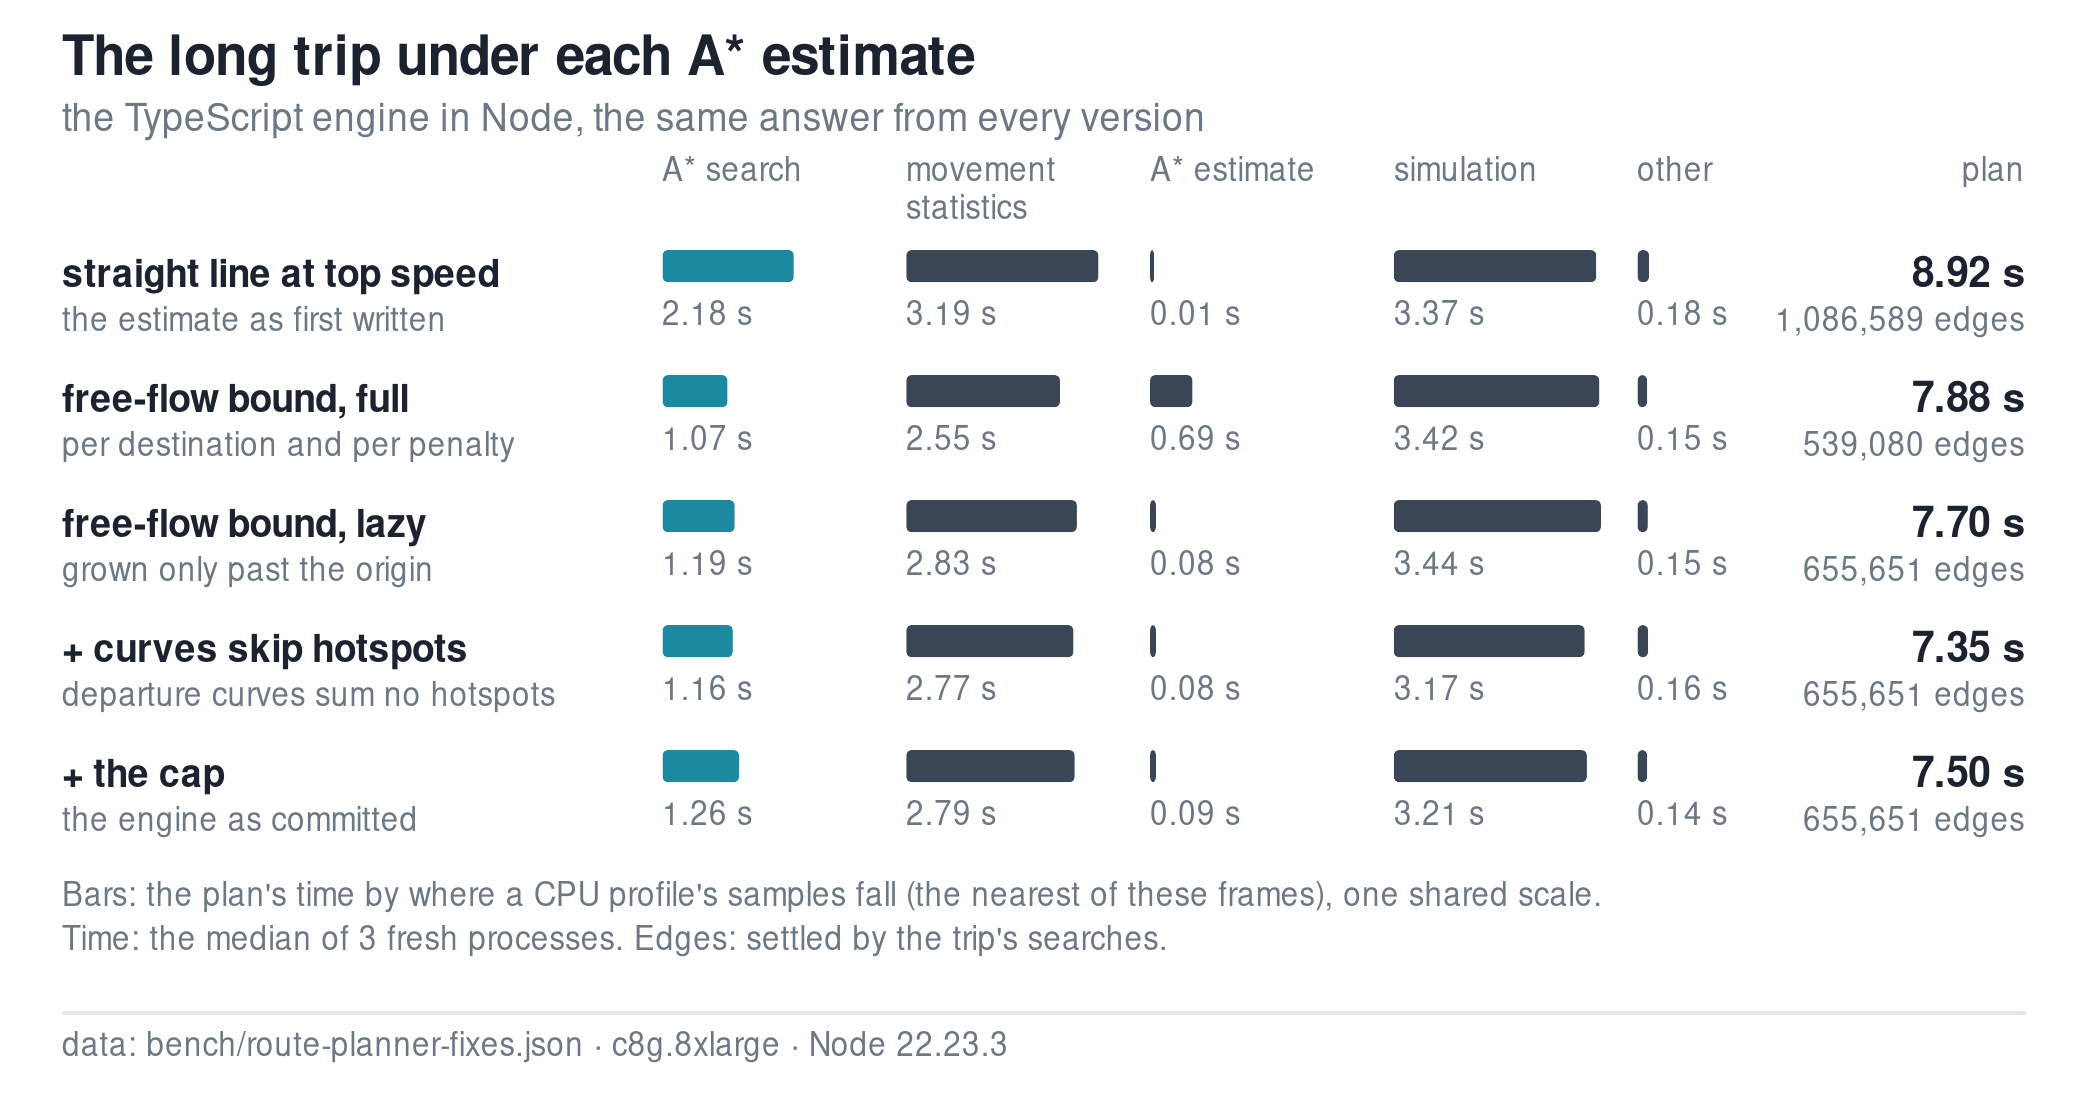
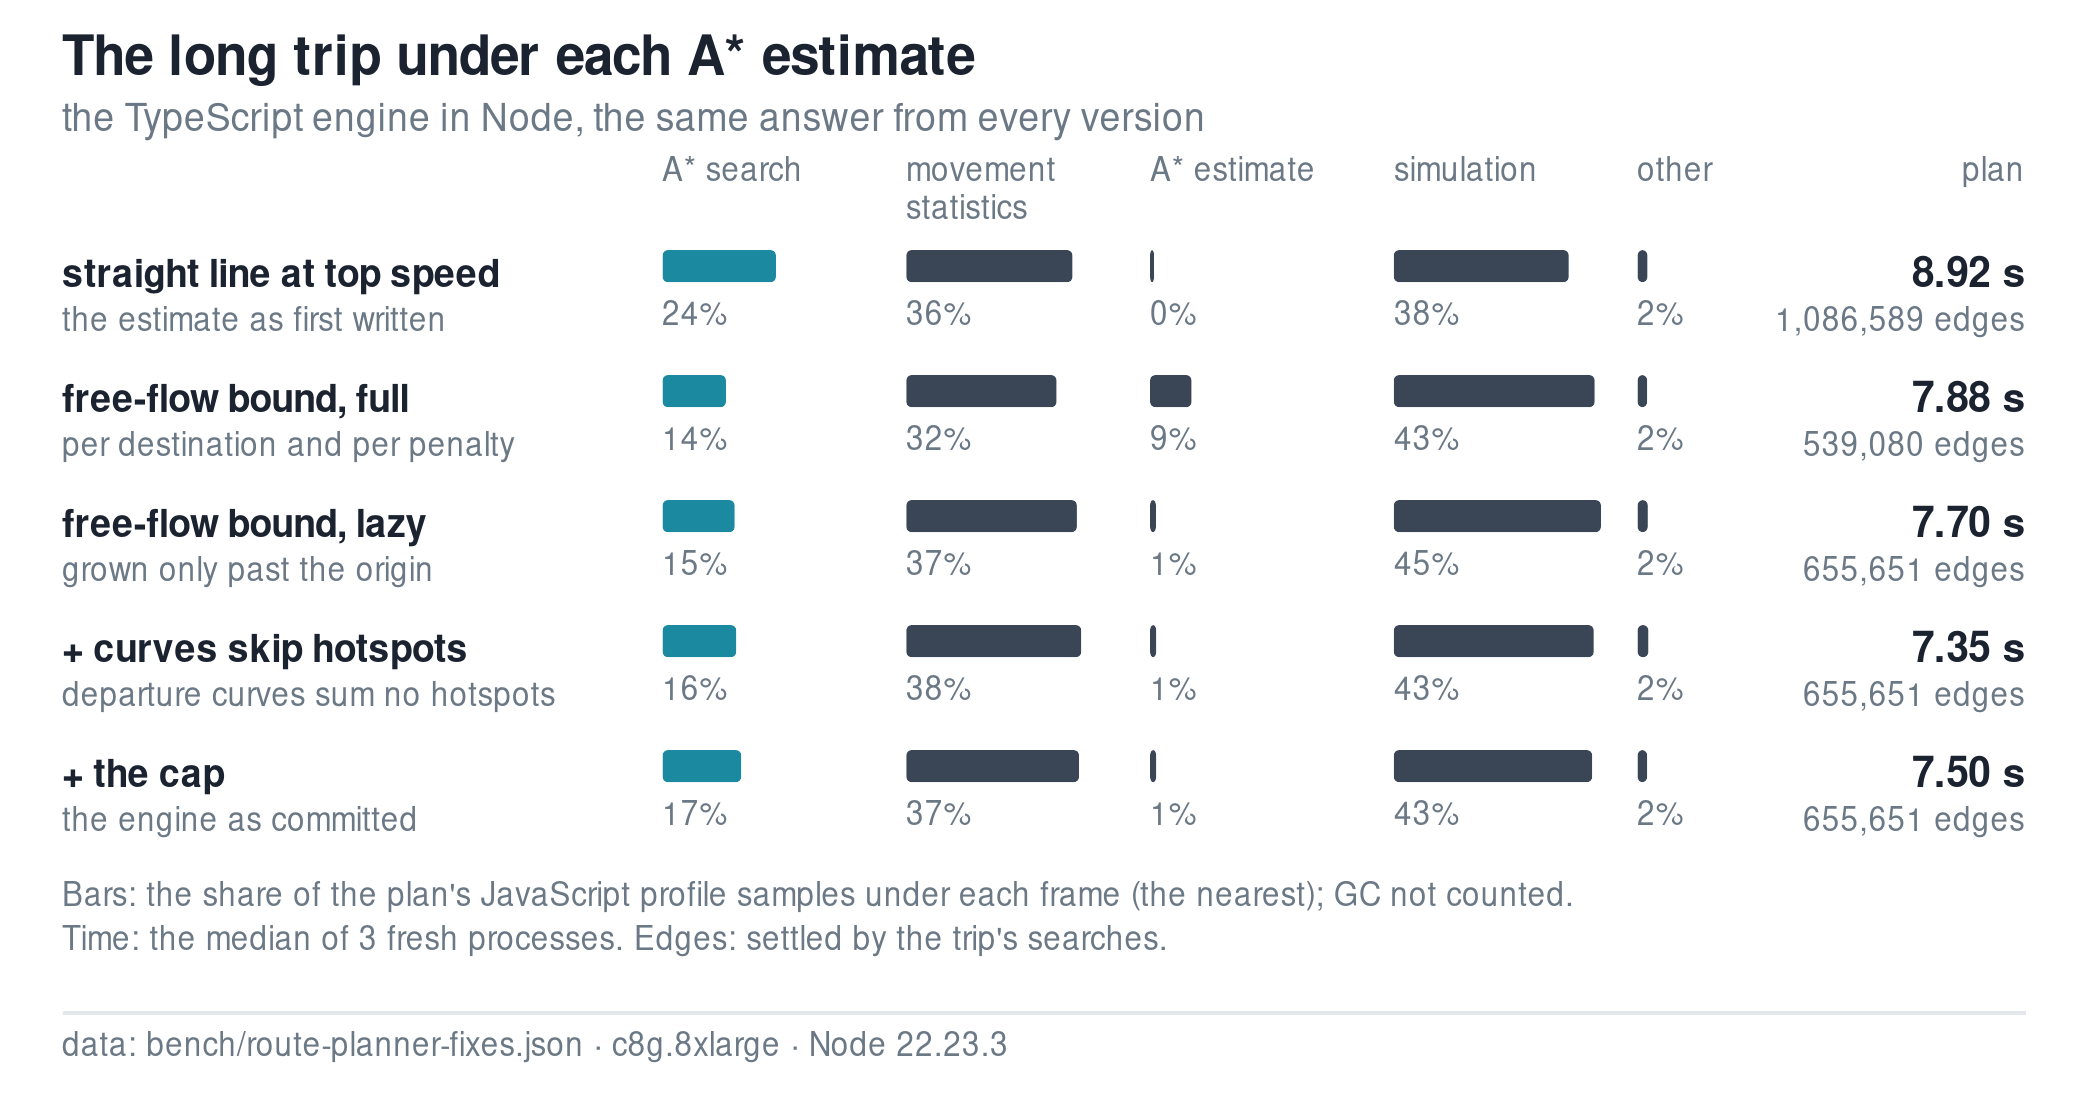
Route planner: review fixes to the bench scripts, figures and write-up
Findings from an independent review of the two previous commits.

- lib.mjs: an array against an object with numeric keys is a parity failure
- bench.mjs: refuses a ROUTE_ROOT built from another pack or trips.json, so
  the record's request is the one the engines ran; Node runs first in every
  round and the other engines rotate by one each round (rounds 1 and 2 had
  shared one order)
- fixes.mjs: only the timeout's own kill counts as a timeout; the profile's
  shares are documented as of the plan's JavaScript samples
- scriptc-check.mjs: a coverage run that did not exit 0 or 1 is a failure
- route-planner-figures.mjs: the A* figure shows each part's share of the
  profile samples (garbage collection is outside them) instead of a share of
  the plan's time; "complexes" for the graph's complexes, which include lone
  vertices; the parity figure names Rust's libm and pow.rs as what the Math
  rows measure, and the pow row's domain
- ROUTE-PLANNER.md: the same corrections, plus the signal (each missed cycle
  adds a red), yield (1.5 s) and free-turn (0.5 s) details, the A* estimate's
  claim limited to what was measured (the same routes), the seeded mornings'
  draws drifting with the traffic, how the record's rounds were ordered, and
  the Hermes order on the medium trip

diff --git a/ROUTE-PLANNER.md b/ROUTE-PLANNER.md
@@ -54,7 +54,7 @@ pair of edges and has its own turn, control and turn restrictions.
 | vertices | 49,083 |
 | directed edges | 103,327 |
 | junctions (3+ directions) | 26,534 |
-| complexes (intersections) | 44,732 |
+| complexes (an intersection, or a lone vertex) | 44,732 |
 
 Fields: `bench/route-planner-fixes.json`: `astar.map.{ways,nodes,restrictions,vertices,edges,junctions,complexes}`.
 
@@ -91,18 +91,21 @@ Fields: `bench/route-planner-fixes.json`: `astar.map.{ways,nodes,restrictions,ve
 - **Signal.** The cycle is 70 to 130 s by the busiest road's class; the major road's through
   movement gets 55% green, a side street 30%, a left turn a protected 12–14% phase. Arriving at a
   random point in the cycle (30% of the time, a major-road through driver is carried into the
-  green by coordinated signals), it waits out the red and the queue that arrived in it, 2 s per car per lane. Near and over
-  saturation it misses whole cycles: a demand over capacity is an overflow.
+  green by coordinated signals), it waits out the red and the queue that arrived in it, 2 s per
+  car per lane. Near and over saturation the queue does not clear in one green: each missed cycle
+  adds another red, and a demand over capacity is an overflow.
 - **Stop and yield.** Gap acceptance (HCM): the movement's capacity against the conflicting
   flow, with critical headways of 6.2 to 7.1 s (longer across a four-lane road, shorter at a
   yield); the cars queued ahead (geometric, with a growing
   overflow queue over capacity) each clear in an exponential time; then the wait for a gap of the
-  critical headway in a Poisson stream; plus 5 s to stop and start.
+  critical headway in a Poisson stream; plus 5 s to stop and start (1.5 s at a yield where the
+  wait came to under a second).
 - **All-way stop.** About 4 s per vehicle, taking turns with the other approaches.
 - **Unprotected left from the major road.** A gap of 4.1 s in the oncoming flow.
-- **Free and internal movements.** A turn costs 2.5 s (right), 3.5 s (left) or 12 s (U-turn).
+- **Free and internal movements.** A turn costs 2.5 s (right), 3.5 s (left) or 12 s (U-turn), and
+  a free turn 0.5 s more.
 
-No movement is priced above 15 minutes.
+A stop, yield or all-way stop delay is capped at 15 minutes; a signal stops adding missed cycles once the wait passes four cycles.
 
 ### Movement statistics
 
@@ -118,10 +121,10 @@ cached for the life of the loaded area.
 `shortestPath` is A* over edges. An edge's cost is its running time at the minute the car reaches
 it, times the alternatives' penalty, plus the movement's mean delay, plus `risk` × the delay's
 standard deviation; `destination`-only roads cost 120 s more unless the trip starts or ends on
-one. The estimate is a lower bound on the remaining cost: the free-flow seconds still to go,
-from one backward Dijkstra search from the destination over free-flow times (no traffic, no
-waits, no turn rules). No route costs less, so the first route to reach the destination is the
-cheapest. The backward search grows lazily: it stops once it has passed the origin by twice the
+one. The estimate is the free-flow seconds still to go, from one backward Dijkstra search from
+the destination over free-flow times (no traffic, no waits, no turn rules): no route's cost is
+less, so the estimate never overstates what remains, and on every trip measured it returns the
+same routes as the straight-line estimate it replaced (Figure 6). The backward search grows lazily: it stops once it has passed the origin by twice the
 origin's free-flow time and at least a minute; a vertex it has not reached gets the distance
 searched so far. It is cached per destination (four kept) and resumed for a search from
 farther away, and capped at four times the straight-line distance at 40 m/s plus ten minutes, for
@@ -165,9 +168,10 @@ Fields: `bench/route-planner-fixes.json`: `astar.results.long.now.counters.{sear
 [High-resolution PNG](bench/charts/fig-route-curve.png)
 
 **Figure 3.** Each route is simulated at 13 departures, every 5 minutes over the hour before the
-arrival, each over the same 300 seeded mornings, so the curve's steps are the traffic and not the
-dice. Leaving later never makes arriving by a fixed time likelier (traffic is first in, first
-out), so a rise between two departures is sampling noise and is held at the lower value. The
+arrival, each over 300 mornings from the same seed, so most of a step between departures is the
+traffic and not the dice (the draws drift apart where queues and gaps draw more numbers on a busier
+minute). The engine treats leaving later as never making arriving by a fixed time likelier, so a
+rise between two departures is taken as sampling noise and held at the lower value. The
 leave-by is where the curve crosses the goal, interpolated between two departures; that minute is
 then simulated on its own and, if it falls short, stepped back a whole minute at a time to one
 that meets the goal. The 20 dots are that simulation's 2.5th, 7.5th, … 97.5th percentiles of
@@ -219,7 +223,7 @@ the engine with counters added, whose answer is the same as the timed engine's.
 | --- | --- | ---: |
 | The map | vertices | 49,083 |
 | The map | directed edges | 103,327 |
-| The map | intersections | 44,732 |
+| The map | complexes | 44,732 |
 | The searches | searches | 13 |
 | The searches | edges settled | 655,651 |
 | The searches | movements priced | 118,132 |
@@ -235,7 +239,7 @@ Fields: `bench/route-planner-fixes.json`: `astar.map.{vertices,edges,complexes}`
 </details>
 <!-- /chart-data:fig-route-workload -->
 
-On the long trip the 13 searches settle 655,651 edges in all, 6.3 times the map's 103,327, and price 118,132 movements in 186,756 buckets: 8,964,288 delays drawn for statistics. The 127 simulations draw 9,293,100 running times and 9,255,000 junction delays. In Node's CPU profile the simulations take 43% of the plan, the movement statistics 37% and the rest of the searches 17% (Figure 6).
+On the long trip the 13 searches settle 655,651 edges in all, 6.3 times the map's 103,327, and price 118,132 movements in 186,756 buckets: 8,964,288 delays drawn for statistics. The 127 simulations draw 9,293,100 running times and 9,255,000 junction delays. Of the plan's JavaScript samples in Node's CPU profile (garbage collection not counted), the simulations take 43%, the movement statistics 37% and the rest of the searches 17% (Figure 6).
 
 ## The Engines
 
@@ -261,7 +265,8 @@ Scriptc says of the engine before and after its rewrites.
 [High-resolution PNG](bench/charts/fig-route-engines.png)
 
 **Figure 5.** Each engine runs each trip in a fresh process with a freshly loaded area, three
-rounds with the engine order rotated each round; the time is the plan call alone, as the engine
+rounds with Node first in each (the other engines in one order in the first two rounds and shifted
+by one in the third); the time is the plan call alone, as the engine
 measures it. The ahead-of-time compilers keep the TypeScript's semantics and differ in what
 they can assume: Rust has fixed-layout structs, typed arrays and no garbage collector; Scriptc
 compiles from the TypeScript checker's types with a runtime for dynamic parts; Static Hermes
@@ -296,13 +301,13 @@ Fields: `bench/route-planner-bench.json`: `results.<trip>.<engine>.medianMs`, `e
 - **Scriptc** compiles the engine (with the rewrites below) to 4.16 s, 1.6 times as fast as Node's JIT on the same source.
 - **Hermes' interpreters** take 27.0 s (V1 with a 1 GB starting heap) to 41.4 s (V1 on the Babel output) on the long trip, 11.9 to 18.2 times Rust native's time.
 - **Static Hermes** compiled untyped is 37.8 s, no faster than V1 interpreting the same bundle (36.6 s). The typed port takes 19.5 s, the tuned port 15.1 s, and the tuned port with C calls 7.25 s, 1.1 times Node's time.
-- The ranking is the same on the short and medium trips; the ratios shrink on shorter trips for the compiled engines (Node takes 2.7 times Rust native's time on the short trip).
+- On the shorter trips the order among the Hermes engines changes: on the medium trip Hermes 0.14.1 (15.9 s) is faster than V1 with its default heap (22.9 s), and slower than V1 on the Babel output (12.6 s). Node takes 2.7 times Rust native's time on the short trip, 2.9 on the long.
 
 ## What Each Fix Bought
 
 ### The A* estimate
 
-![The long trip in the TypeScript engine under five versions of its A* estimate: time by where the CPU profile's samples fall, and edges settled](bench/charts/fig-route-astar.svg)
+![The long trip in the TypeScript engine under five versions of its A* estimate: the plan's time, the share of its profile samples under each part, and the edges settled](bench/charts/fig-route-astar.svg)
 
 [High-resolution PNG](bench/charts/fig-route-astar.png)
 
@@ -377,12 +382,13 @@ The port's contract is the TypeScript's results, bit for bit where the arithmeti
 [High-resolution PNG](bench/charts/fig-route-parity.png)
 
 **Figure 7.** V8 computes `Math.exp`, `log`, `cos`, `pow` and the rest with its own
-implementations; Rust's `libm` crate and the C library Scriptc's and Hermes' code call compute
-them differently and disagree with V8 in the last bit on some inputs, never by more than one ulp.
-The Rust port otherwise rounds as V8 does (no fused multiply-add, the same order of operations),
-so for it those last bits are the only source of difference; the other compilers make their own
-choices, and the typed ports, rewritten by hand, differ in more numbers. Every difference stays
-within a few parts in 10^16.
+implementations; Rust's `libm` crate (with `pow.rs`) computes them differently and disagrees with
+V8 in the last bit on some inputs, never by more than one ulp (the left panel; the C library
+Scriptc's and Hermes' code calls is measured only through their answers). The Rust port
+otherwise rounds as V8 does (no fused multiply-add, the same order of operations), so for it
+those last bits are the only source of difference; the other compilers make their own choices,
+and the typed ports, rewritten by hand, differ in more numbers. Every difference stays within a
+few parts in 10^16.
 
 <!-- chart-data:fig-route-parity -->
 <details>
@@ -425,7 +431,7 @@ Fields: `bench/route-planner-fixes.json`: `parity.contracts.math.<row>.{n,differ
 </details>
 <!-- /chart-data:fig-route-parity -->
 
-- **V8 against libm** (`engine-rs/test/parity.test.ts`, 10^6 inputs per row): `pow` on the traffic model's terms differs in 9.45% of inputs; `log`, `cos` and `tan`, and `sin` and `asin` over their full ranges, in 0.7–1.8%; `exp`, `expm1` and `atan2` in 0.01–0.09%; `sin` and `asin` on the small arguments of the engine's distances in none and one input; `sqrt` and `x ** 2` never (both are correctly rounded everywhere). No result is more than one ulp apart. The seeded generator's `next()` and `uniform()` are bit-identical; `normal()`, which goes through `log` and `cos`, differs in 19,959 of 1,000,000 draws by up to 3 ulps.
+- **V8 against Rust's `libm` and `pow.rs`** (`engine-rs/test/parity.test.ts`, 10^6 inputs per row): `pow` with x in (0, 3] and y in [0, 4] differs in 9.45% of inputs; `log`, `cos` and `tan`, and `sin` and `asin` over their full ranges, in 0.7–1.8%; `exp`, `expm1` and `atan2` in 0.01–0.09%; `sin` and `asin` on the small arguments of the engine's distances in none and one input; `sqrt` and `x ** 2` never (both are correctly rounded everywhere). No result is more than one ulp apart. The seeded generator's `next()` and `uniform()` are bit-identical; `normal()`, which goes through `log` and `cos`, differs in 19,959 of 1,000,000 draws by up to 3 ulps.
 - **Through a plan** the differences stay in the last bits: on the 23 golden trips Rust differs from TypeScript in 531 of 139,602 numbers and Scriptc in 2,315, at most 8.1e-16 relative, with every route and leave-by identical. Rust's native and WebAssembly answers are byte-identical, since both use the same `libm`.
 - The measurements are on arm64; x86-64 was not measured.
 
